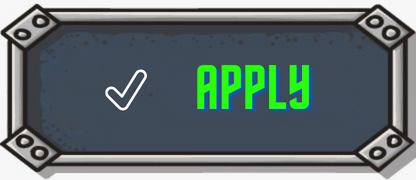
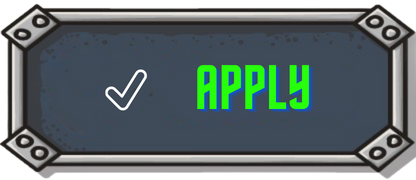
Changed apply button on setting window
Changed the appearance of apply button on setting window to maintain consistency in design

diff --git a/source/core/src/main/com/deco2800/game/components/settingsmenu/SettingsMenuDisplay.java b/source/core/src/main/com/deco2800/game/components/settingsmenu/SettingsMenuDisplay.java
@@ -168,7 +168,7 @@ public class SettingsMenuDisplay extends UIComponent {
 
   private Table makeMenuBtns() {
    // TextButton exitBtn = new TextButton("Exit", skin);
-    TextButton applyBtn = new TextButton("Apply", skin);
+   // TextButton applyBtn = new TextButton("Apply", skin);
 
     Button.ButtonStyle exitStyle = new Button.ButtonStyle();
     exitStyle.up= new TextureRegionDrawable(new TextureRegion(
@@ -176,6 +176,13 @@ public class SettingsMenuDisplay extends UIComponent {
     exitStyle.over= new TextureRegionDrawable(new TextureRegion(
             new Texture(Gdx.files.internal("images/btn_exit2.png"))));
     Button exitBtn = new Button(exitStyle);
+
+    Button.ButtonStyle applyStyle = new Button.ButtonStyle();
+    applyStyle.up= new TextureRegionDrawable(new TextureRegion(
+            new Texture(Gdx.files.internal("images/btn_apply1.png"))));
+    applyStyle.over= new TextureRegionDrawable(new TextureRegion(
+            new Texture(Gdx.files.internal("images/btn_apply2.png"))));
+    Button applyBtn = new Button(applyStyle);
 
     exitBtn.addListener(
         new ChangeListener() {
@@ -197,8 +204,9 @@ public class SettingsMenuDisplay extends UIComponent {
 
     Table table = new Table();
    // table.add(exitBtn).expandX().left().pad(0f, 15f, 15f, 0f);
-    table.add(exitBtn).left().size(200f,80f).pad(0f, 15f, 15f, 0f);
-    table.add(applyBtn).expandX().right().pad(0f, 0f, 15f, 15f);
+    table.add(exitBtn).left().expandX().size(200f,80f).pad(0f, 15f, 15f, 0f);
+    table.add(applyBtn).right().expandX().size(200f,80f).pad(0f, 0f, 15f, 15f);
+    //  table.add(applyBtn).expandX().right().pad(0f, 0f, 15f, 15f);
     return table;
   }
 
